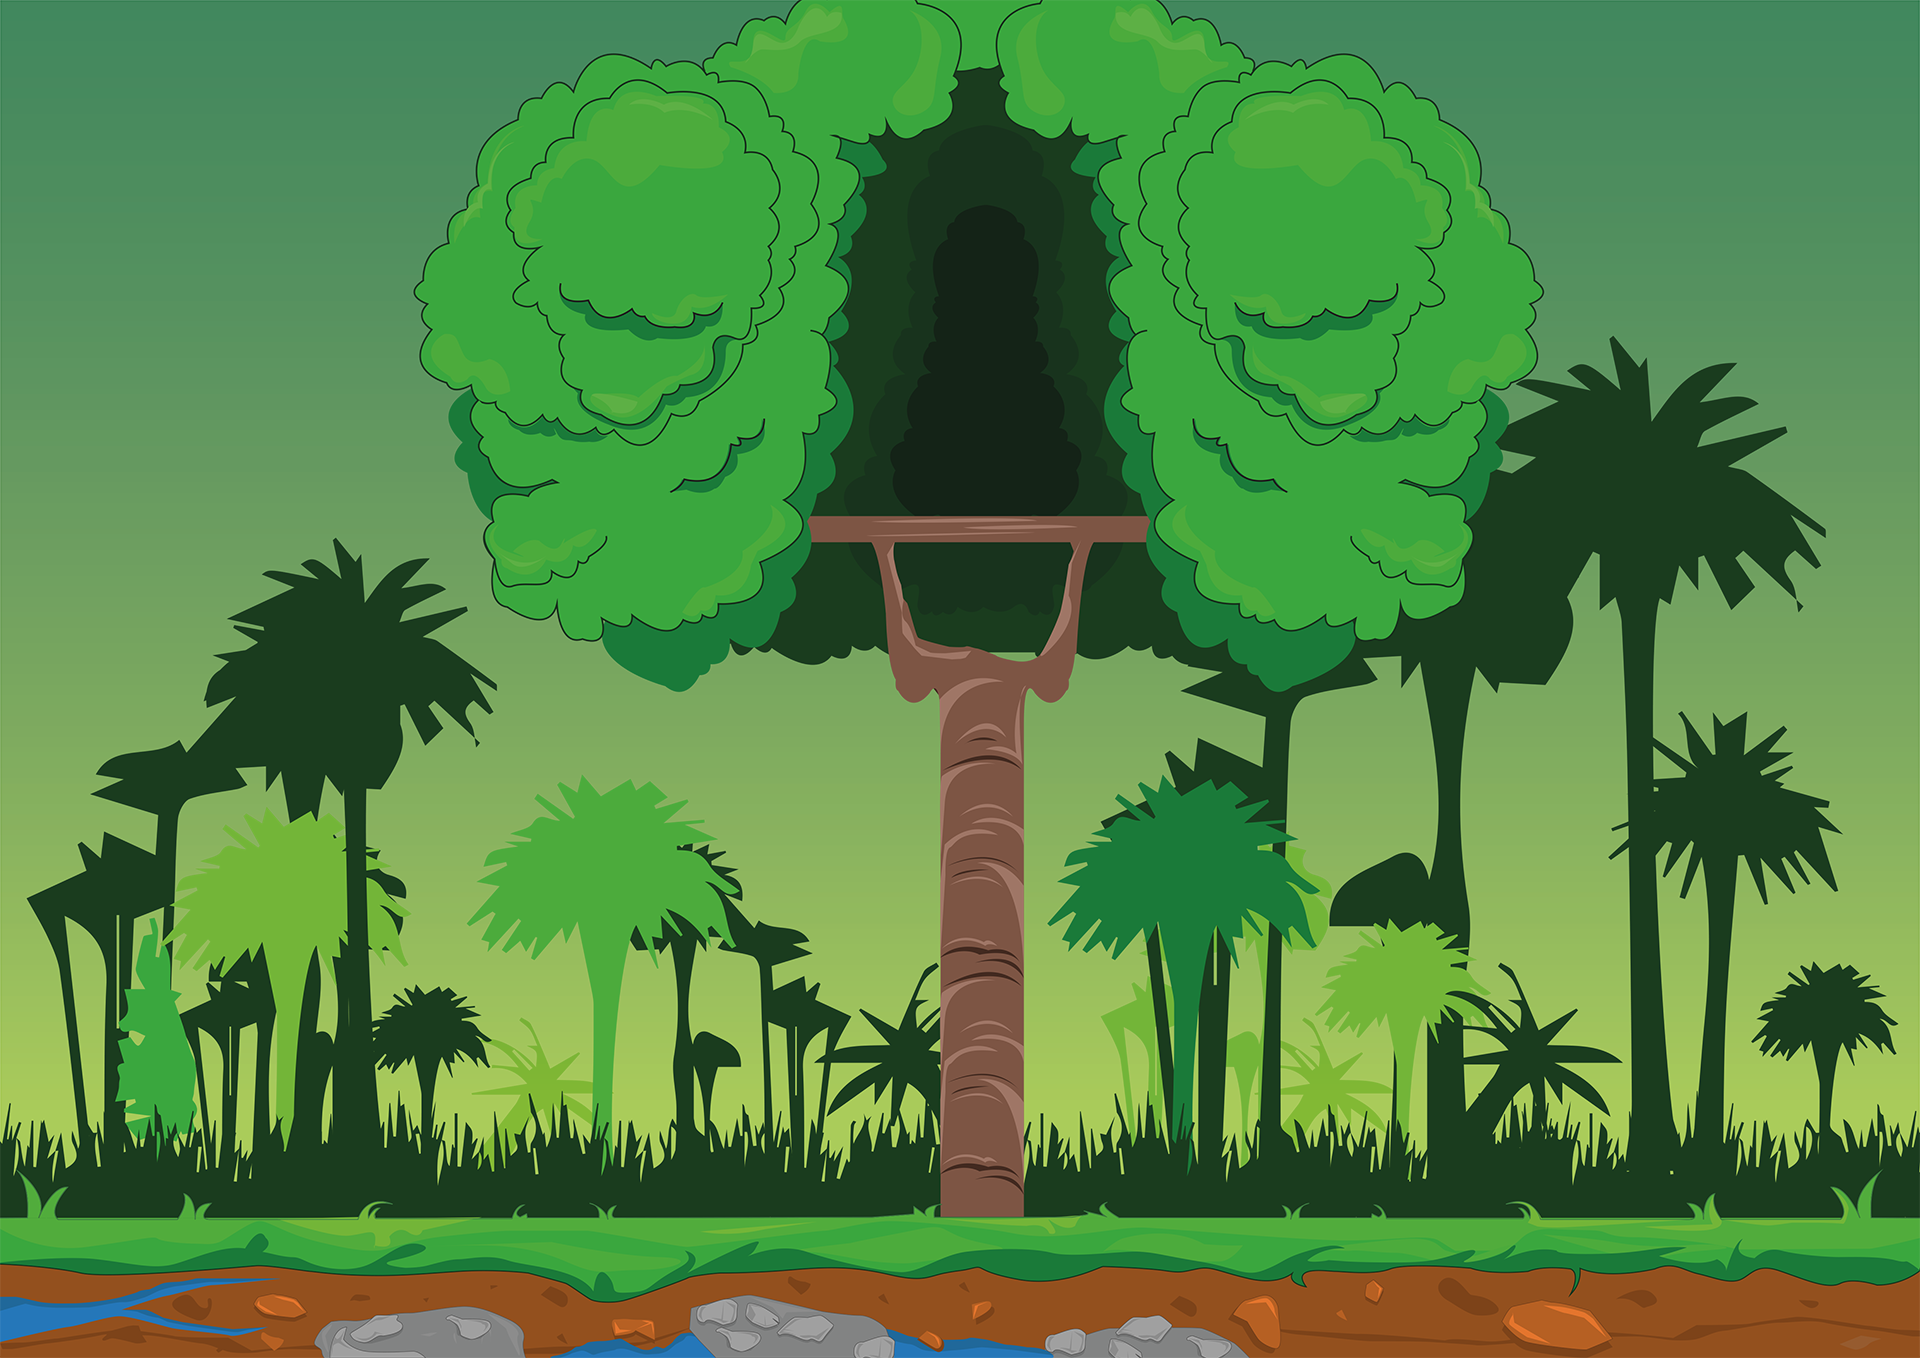
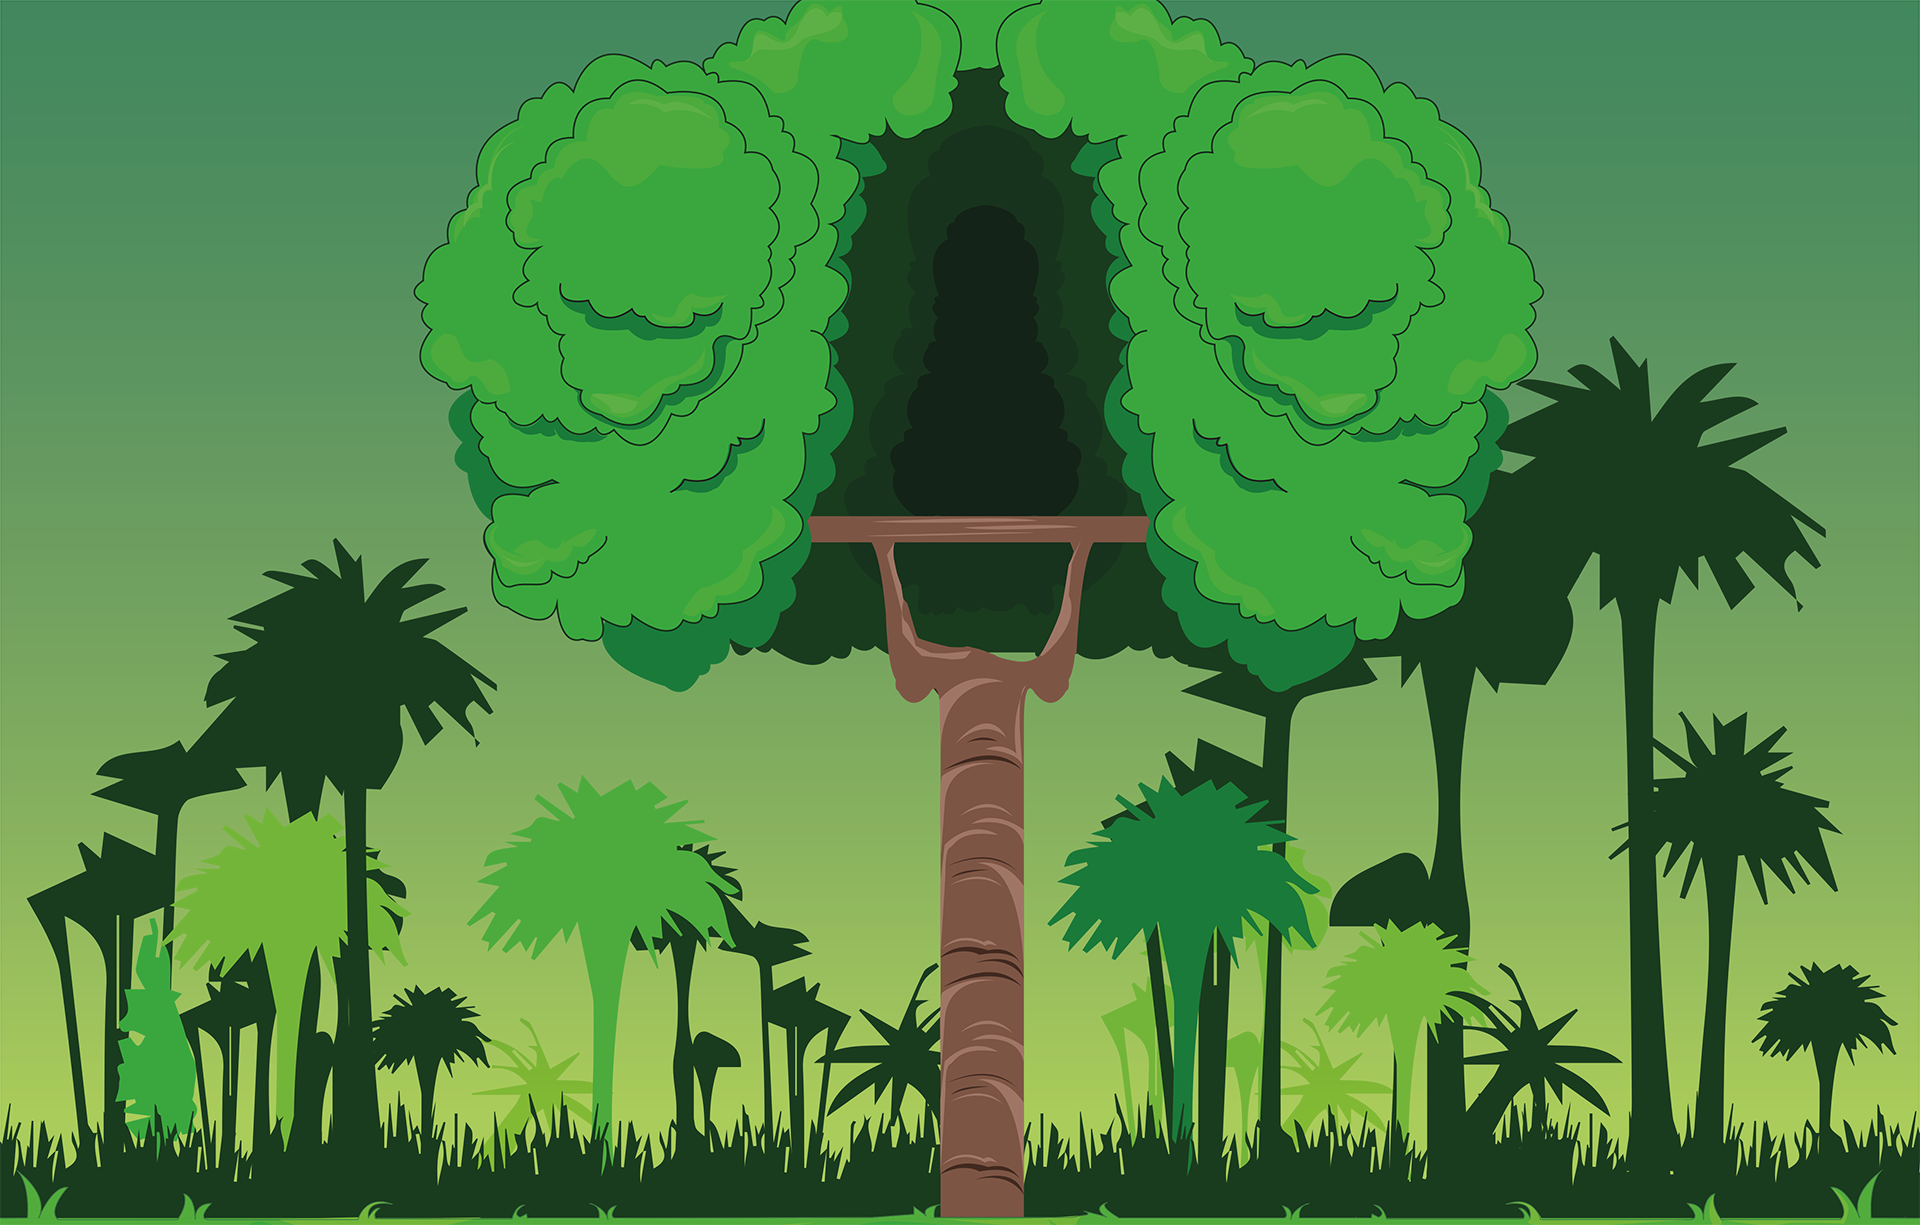
add assets for the footer
All grafik asset are not the official ones.

diff --git a/web/index.html b/web/index.html
@@ -172,6 +172,33 @@
                             <div class="footer-note">
                                 <p>© 2014 Baomonkey</p>
                             </div>
+                            <ul class="social-icons list-unstyled list-inline">
+                                <li>
+                                    <a href="#" data-toggle="tooltip" data-placement="top" title="" data-original-title="Facebook" class="green-tooltip">
+                                        <div class="social-icon text-center"><i class="fa fa-facebook"></i></div>
+                                    </a>
+                                </li>
+                                <li>
+                                    <a href="#" data-toggle="tooltip" data-placement="top" title="" data-original-title="Twitter" class="green-tooltip">
+                                        <div class="social-icon text-center"><i class="fa fa-twitter"></i></div>
+                                    </a>
+                                </li>
+                                <li>
+                                    <a href="#" data-toggle="tooltip" data-placement="top" title="" data-original-title="Google Plus" class="green-tooltip">
+                                        <div class="social-icon text-center"><i class="fa fa-google-plus"></i></div>
+                                    </a>
+                                </li>
+                                <li>
+                                    <a href="#" data-toggle="tooltip" data-placement="top" title="" data-original-title="Instagram" class="green-tooltip">
+                                        <div class="social-icon text-center"><i class="fa fa-instagram"></i></div>
+                                    </a>
+                                </li>
+                                <li>
+                                    <a href="mailto:author@company.com" data-toggle="tooltip" data-placement="top" title="" data-original-title="Email" class="green-tooltip"><!-- Change to your own email address -->
+                                        <div class="social-icon text-center"><i class="fa fa-envelope"></i></div>
+                                    </a>
+                                </li>
+                            </ul>
                         </div>
                     </div>
                 </div>

diff --git a/web/css/app.css b/web/css/app.css
@@ -91,6 +91,7 @@ header {
 #about {
     padding-top: 100px;
     padding-bottom: 150px;
+    background-color: #4DAE34;
 }
 #about .user {
     padding: 25px 0px;
@@ -110,59 +111,6 @@ header {
     -moz-animation: spin 1s infinite linear;
     -webkit-animation: spin 1s infinite linear;
   animation: spin 1s infinite linear;
-}
-
-/*----------------------------------------
-    VIDEO
-----------------------------------------*/
-#video {
-    background-color: #8cddcd;
-    color: #444;
-    padding-top: 150px;
-    padding-bottom: 0px;
-}
-#video .ipad-1 {
-    background-image: url('../img/ipad-1.png');
-    background-repeat: no-repeat;
-    background-position: top center!important;
-    height: 450px;
-    text-align: center;
-    padding-top: 255px;
-}
-#video .ipad-1 a {
-    color: #fff;
-}
-#video .ipad-1 a:hover,
-#video .ipad-1 a:focus {
-    color: #999;
-}
-
-/*----------------------------------------
-    TESTIMONIAL
-----------------------------------------*/
-#testimonials {
-    padding-top: 100px;
-    padding-bottom: 150px;
-}
-#testimonials .text p {
-    font-size: 18px;
-    font-weight: 300;
-    line-height: 1.456em;
-    margin-top: 15px;
-}
-
-/*----------------------------------------
-    PURCHASE
-----------------------------------------*/
-#purchase {
-    background-color: #2c3e50;
-    color: #fff;
-    padding-top: 50px;
-    padding-bottom: 100px;
-    text-align: center;
-}
-#purchase h1 {
-    margin-bottom: 30px;
 }
 
 /*----------------------------------------
@@ -222,14 +170,15 @@ header {
     -webkit-border-radius: 50%;
     background-color: #16a085;
     color: #fff;
-    font-size: 32px;
-    height: 80px;
-    width: 80px;
-    padding: 16px;
+    font-size: 16px;
+    height: 35px;
+    width: 35px;
+    padding: 10px;
     -moz-transition: all 0.2s;
     -webkit-transition: all 0.2s;
     transition: all 0.2s;
 }
+
 .social-icon:hover,
 .social-icon:focus {
     background-color: #139077;
@@ -239,10 +188,11 @@ header {
     FOOTER
 ----------------------------------------*/
 footer {
-    background-color: #0d5e4e;
+    background: url(../assets/footer.png);
+    background-color: #4DAE34;
     color: #fff;
     margin: 0;
-    padding: 10px;
+    height: 188px;
 }
 footer .footer-links > li > a {
     color: #fff;
